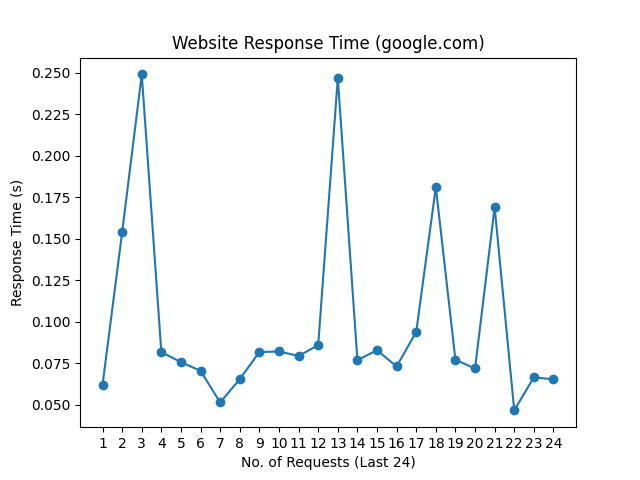
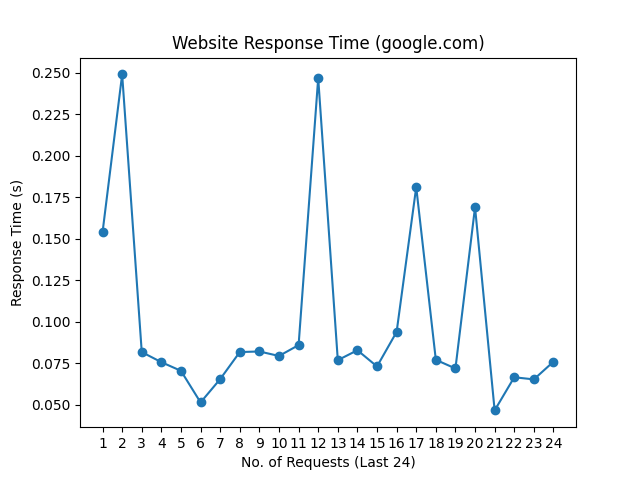
update README.md, history and graph

Changed region(s): [[0.1562, 0.125, 0.875, 0.875]]

diff --git a/README.md b/README.md
@@ -1,10 +1,10 @@
 # Web Monitoring
 
-Last Checked: 27/08/2024 08:18
+Last Checked: 28/08/2024 08:17
 
 | Website | Response Time (s) | Status | Avg Uptime (%) |
 |---------|-------------------|--------|----------------|
 | www.thiswebsiteisdown.net | 0 <br> <img src="graph/thiswebsiteisdown.net.png" alt="Graph" width="200" height="200">  | ❌ Down | 0.00 |
-| www.netflix.com | 0.824343 <br> <img src="graph/netflix.com.png" alt="Graph" width="200" height="200">  | ✅ Up | 100.00 |
-| www.google.com | 0.065164 <br> <img src="graph/google.com.png" alt="Graph" width="200" height="200">  | ✅ Up | 100.00 |
-| www.facebook.com | 0.936933 <br> <img src="graph/facebook.com.png" alt="Graph" width="200" height="200">  | ✅ Up | 100.00 |
+| www.netflix.com | 1.339531 <br> <img src="graph/netflix.com.png" alt="Graph" width="200" height="200">  | ✅ Up | 100.00 |
+| www.google.com | 0.075830 <br> <img src="graph/google.com.png" alt="Graph" width="200" height="200">  | ✅ Up | 100.00 |
+| www.facebook.com | 0.365341 <br> <img src="graph/facebook.com.png" alt="Graph" width="200" height="200">  | ✅ Up | 100.00 |
